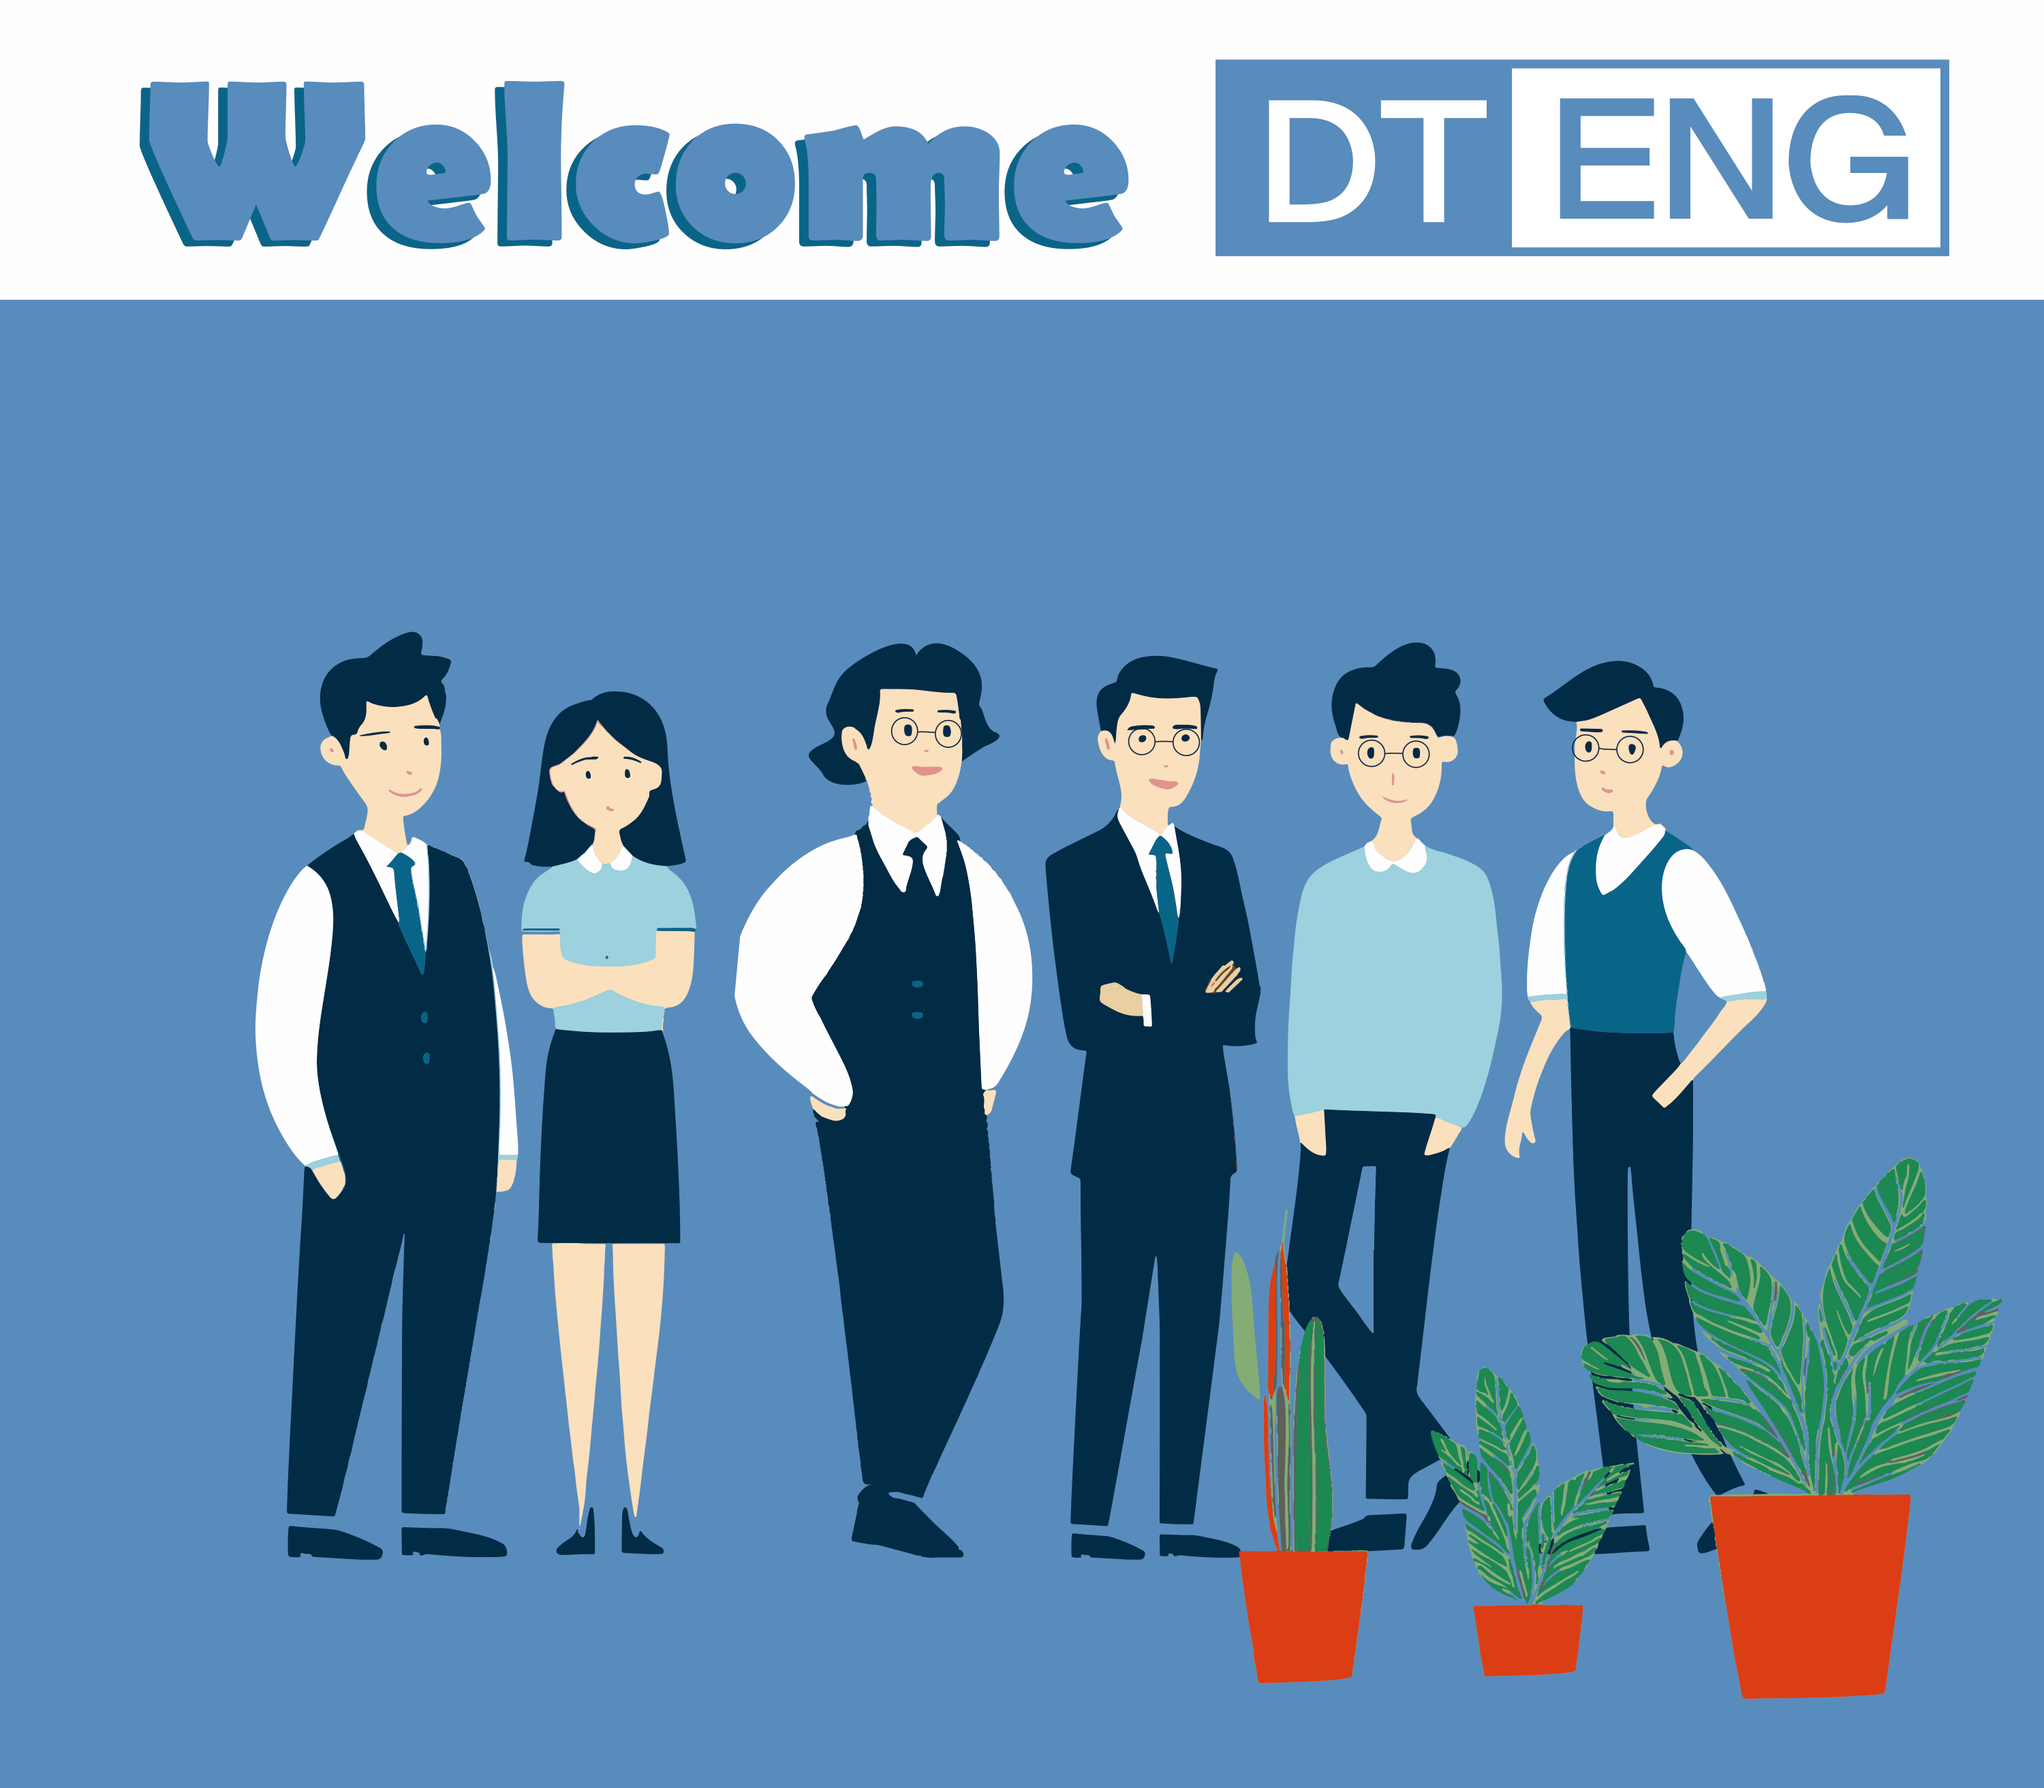
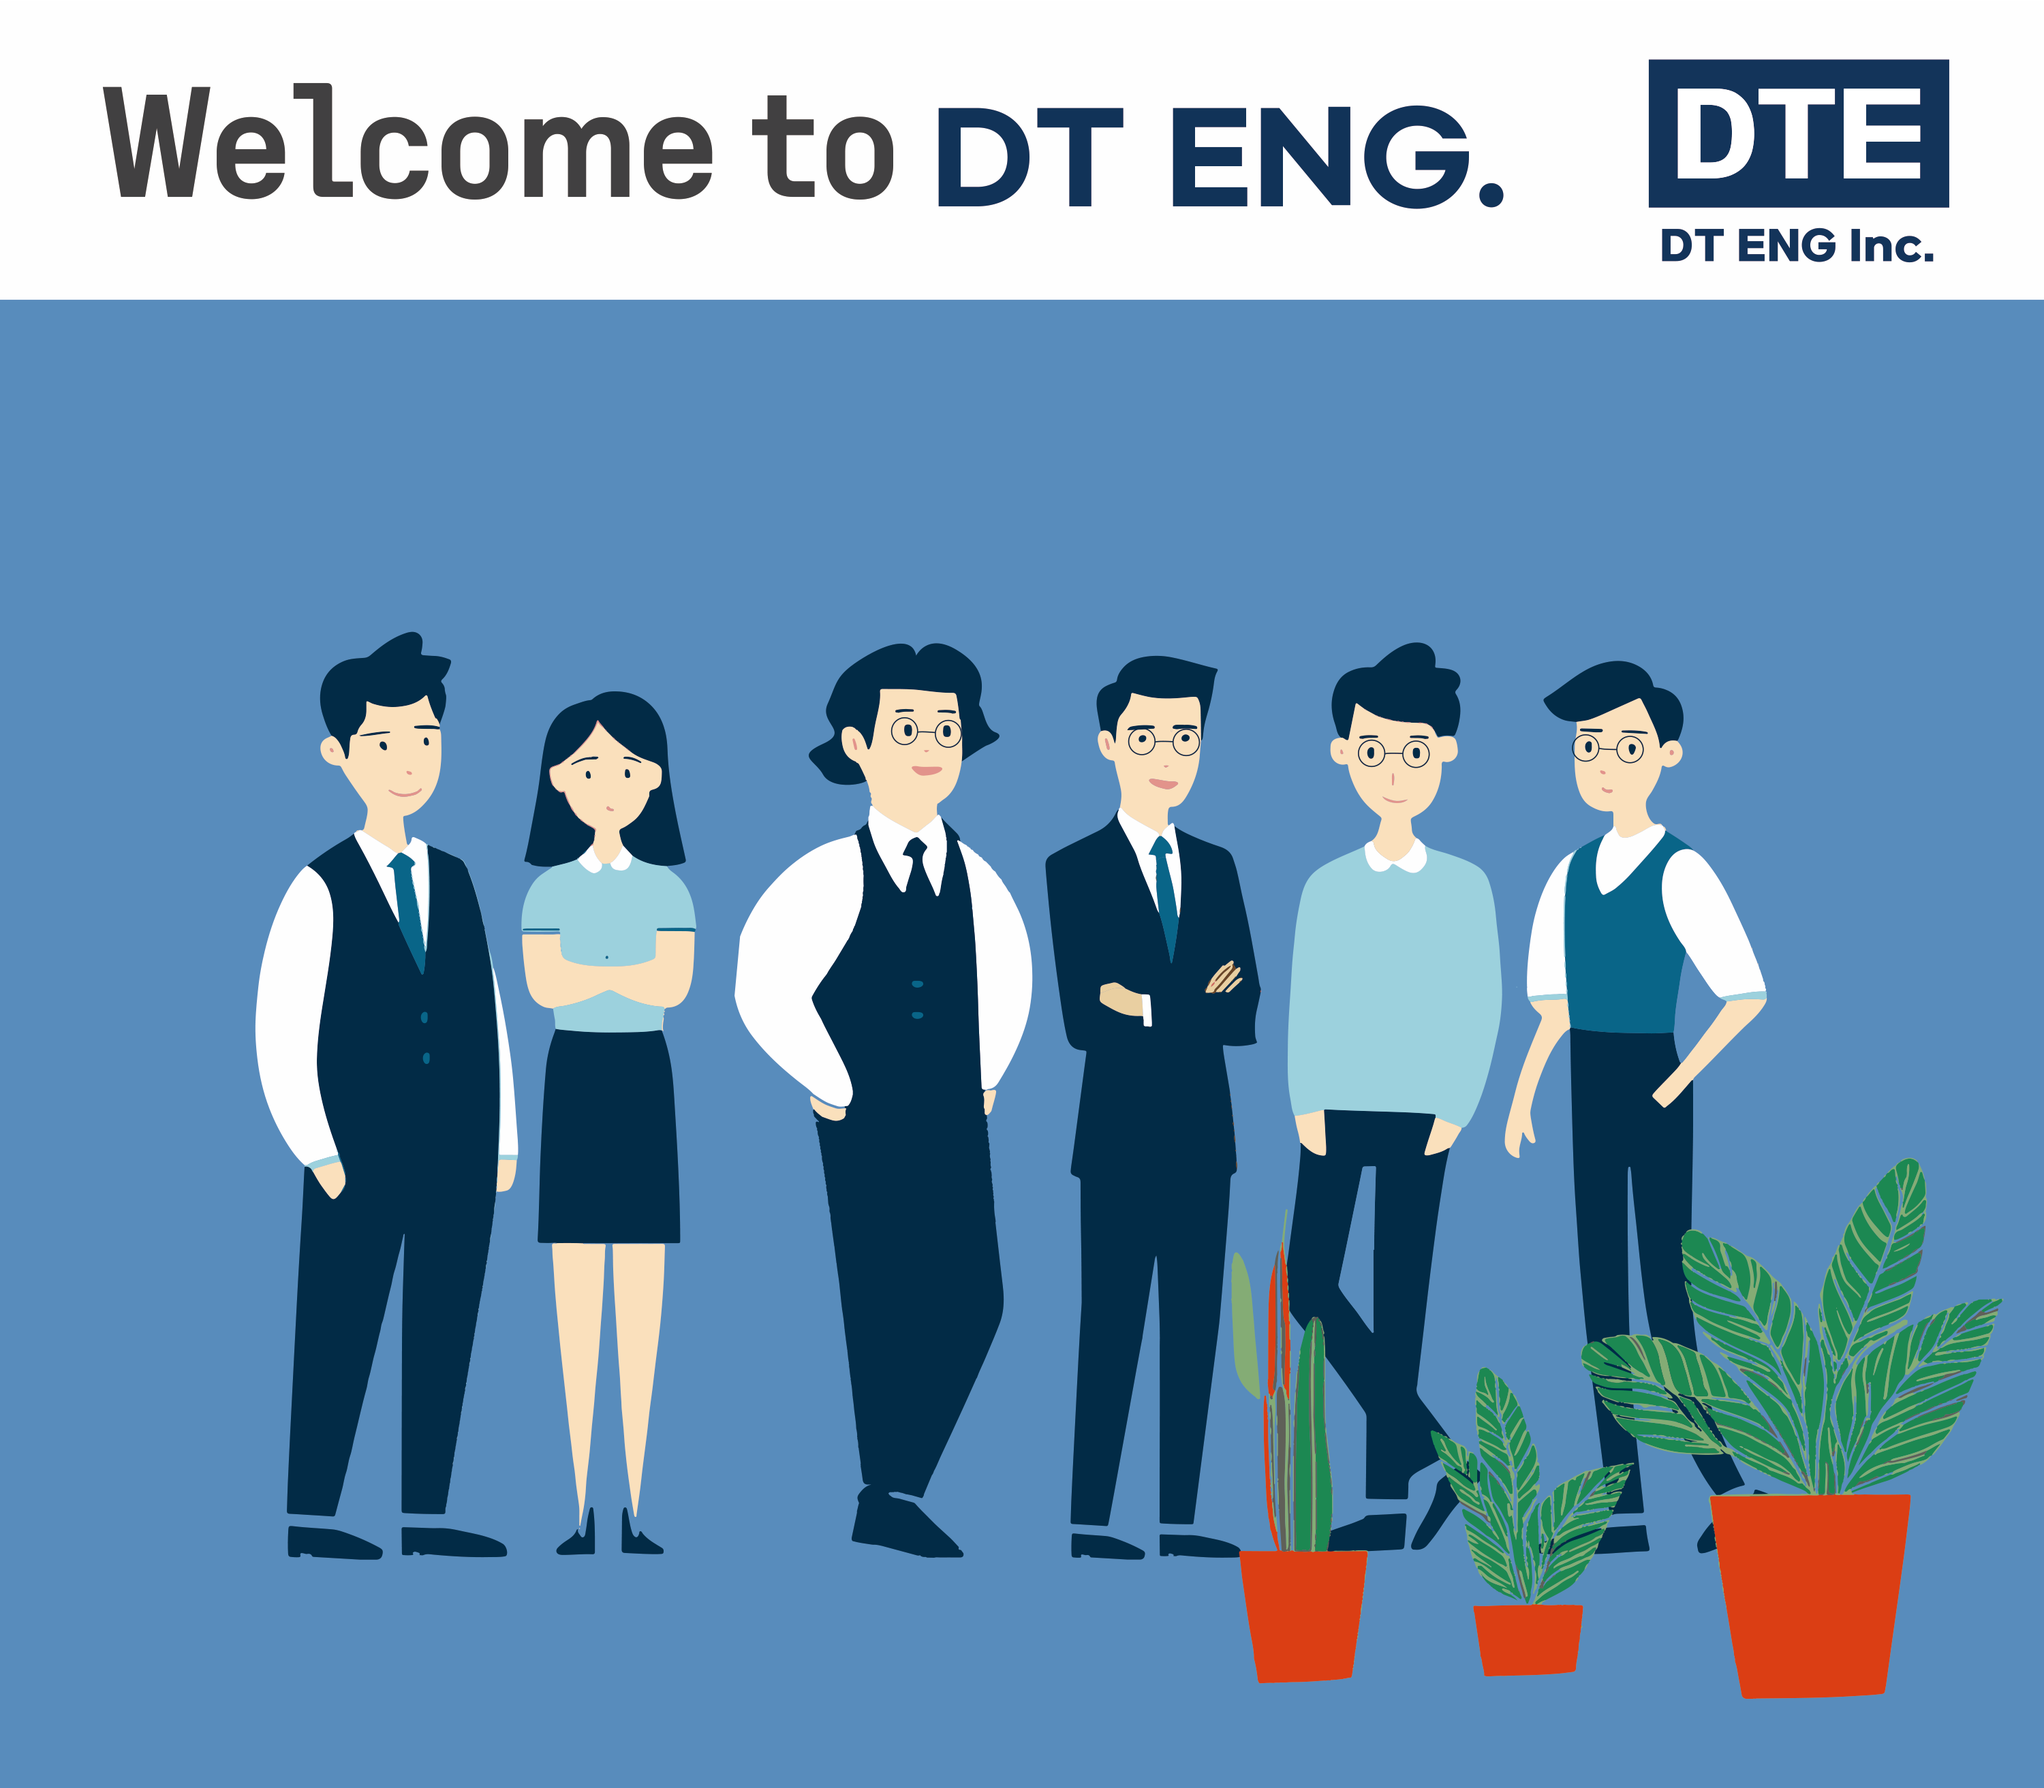
메인 로고 변경 및 연혁, 인증, 특허내용 최신화

Changed region(s): [[0.031, 0.0312, 0.961, 0.1562]]

diff --git a/src/main/resources/templates/fragments/pr-content-kor.html b/src/main/resources/templates/fragments/pr-content-kor.html
@@ -43,14 +43,27 @@
 									<td style="width: 16%; text-align: center;"><img th:src="@{/img/ISO9001-kor.png}" alt="ISO9001-kor"></td>
 									<td style="width: 16%; text-align: center;"><img th:src="@{/img/ISO9001-eng.png}" alt="ISO9001-eng"></td>
 									<td style="width: 16%; text-align: center;"><img th:src="@{/img/ISO14001-kor.png}" alt="ISO14001-kor"></td>
-									<td style="width: 16%; text-align: center;"><img th:src="@{/img/ISO14001-eng.png}" alt="ISO14001-kor"></td>
+									<td style="width: 16%; text-align: center;"><img th:src="@{/img/ISO14001-eng.png}" alt="ISO14001-eng"></td>
 									<td style="width: 16%; text-align: center;"><img th:src="@{/img/ISO45001-kor.png}" alt="ISO45001-kor"></td>
-									<td style="width: 16%; text-align: center;"><img th:src="@{/img/ISO45001-eng.png}" alt="ISO45001-kor"></td>
+									<td style="width: 16%; text-align: center;"><img th:src="@{/img/ISO45001-eng.png}" alt="ISO45001-eng"></td>
 								</tr>
 								<tr>
 									<td colspan="2">ISO 9001 품질경영시스템인증서 (2017.03.16)</td>
 									<td colspan="2">ISO 14001 환경경영시스템인증서 (2020.05.06)</td>
 									<td colspan="2">ISO 45001 안전보건경영시스템인증서 (2020.05.06)</td>
+								</tr>
+								<tr>
+									<td style="width: 16%; text-align: center;"><img th:src="@{/img/ISO37301-kor.png}" alt="ISO37301-kor"></td>
+									<td style="width: 16%; text-align: center;"><img th:src="@{/img/ISO37301-eng.png}" alt="ISO37301-eng"></td>
+									<td style="width: 16%; text-align: center;"></td>
+									<td style="width: 16%; text-align: center;"></td>
+									<td style="width: 16%; text-align: center;"></td>
+									<td style="width: 16%; text-align: center;"></td>
+								</tr>
+								<tr>
+									<td colspan="2">ISO 37301 반도체 장비 부품(웨이퍼용 정전척)의 생산 (2024.08.07)</td>
+									<td colspan="2"></td>
+									<td colspan="2"></td>
 								</tr>
 							</table>
 						</div>
@@ -62,7 +75,7 @@
 						<div id="patent">
 							<table class="default-table">
 								<tr>
-									<th style="width: 100%;" colspan="6">출원 특허 (10건)</th>
+									<th style="width: 100%;" colspan="6">출원 특허 (16건)</th>
 
 								</tr>
 								<tr>
@@ -78,6 +91,14 @@
 									<td><img th:src="@{/img/patent08.png}" alt="patent08"></td>
 									<td><img th:src="@{/img/patent09.png}" alt="patent09"></td>
 									<td><img th:src="@{/img/patent10.png}" alt="patent10"></td>
+									<td><img th:src="@{/img/patent11.png}" alt="patent11"></td>
+									<td><img th:src="@{/img/patent12.png}" alt="patent12"></td>
+								</tr>
+								<tr>
+									<td><img th:src="@{/img/patent13.png}" alt="patent13"></td>
+									<td><img th:src="@{/img/patent14.png}" alt="patent14"></td>
+									<td><img th:src="@{/img/patent15.png}" alt="patent15"></td>
+									<td><img th:src="@{/img/patent16.png}" alt="patent16"></td>
 									<td></td>
 									<td></td>
 								</tr>

diff --git a/src/main/resources/templates/fragments/pr-content-eng.html b/src/main/resources/templates/fragments/pr-content-eng.html
@@ -52,6 +52,19 @@
 					                <td colspan="2">ISO 14001 Environmental Management System Certification (2020.05.06)</td>
 					                <td colspan="2">ISO 45001 Occupational Health and Safety Management System Certification (2020.05.06)</td>
 					            </tr>
+					            <tr>
+									<td style="width: 16%; text-align: center;"><img th:src="@{/img/ISO37301-kor.png}" alt="ISO37301-kor"></td>
+									<td style="width: 16%; text-align: center;"><img th:src="@{/img/ISO37301-eng.png}" alt="ISO37301-eng"></td>
+									<td style="width: 16%; text-align: center;"></td>
+									<td style="width: 16%; text-align: center;"></td>
+									<td style="width: 16%; text-align: center;"></td>
+									<td style="width: 16%; text-align: center;"></td>
+								</tr>
+								<tr>
+					                <td colspan="2">ISO 37301 Manufacture of Parts(Electrostatic Chuck)for semiconductor Equipment (2024.08.07)</td>
+									<td colspan="2"></td>
+									<td colspan="2"></td>
+								</tr>
 					        </table>
 					    </div>
 					    <br>
@@ -62,7 +75,7 @@
 					    <div id="patent">
 					        <table class="default-table">
 					            <tr>
-					                <th style="width: 100%;" colspan="6">Applied Patents (10)</th>
+					                <th style="width: 100%;" colspan="6">Applied Patents (16)</th>
 					            </tr>
 					            <tr>
 					                <td><img th:src="@{/img/patent01.png}" alt="patent01"></td>
@@ -77,9 +90,17 @@
 					                <td><img th:src="@{/img/patent08.png}" alt="patent08"></td>
 					                <td><img th:src="@{/img/patent09.png}" alt="patent09"></td>
 					                <td><img th:src="@{/img/patent10.png}" alt="patent10"></td>
-					                <td></td>
-					                <td></td>
-					            </tr>
+					                <td><img th:src="@{/img/patent11.png}" alt="patent11"></td>
+									<td><img th:src="@{/img/patent12.png}" alt="patent12"></td>
+								</tr>
+								<tr>
+									<td><img th:src="@{/img/patent13.png}" alt="patent13"></td>
+									<td><img th:src="@{/img/patent14.png}" alt="patent14"></td>
+									<td><img th:src="@{/img/patent15.png}" alt="patent15"></td>
+									<td><img th:src="@{/img/patent16.png}" alt="patent16"></td>
+									<td></td>
+									<td></td>
+								</tr>
 					        </table>
 					    </div>
 					    <br>

diff --git a/src/main/resources/templates/fragments/location-content-eng.html b/src/main/resources/templates/fragments/location-content-eng.html
@@ -28,7 +28,7 @@
             <div id="box-center"><!-- S : 연혁 헤더 -->
 			<div>
 				<p class="title">Head Office</p>
-				<h3>ADDRESS: (18487) 814, Dongbu-daero, Hwaseong-si, Gyeonggi-do, Republic of Korea</h3>
+				<h3>ADDRESS: (18487) 53-15, Dongtansandan 6-gil, Hwaseong-si, Gyeonggi-do, Republic of Korea</h3>
 				<p class="body-text">TEL: 031-768-8847 / FAX: 031-8058-0422</p>
 			</div>
 			<hr>
@@ -37,7 +37,7 @@
 					<img th:src="@{/img/company_img.png}" alt="location">
 				</div>
 				<div id="box-right">
-					<iframe src="https://www.google.com/maps/embed?pb=!1m18!1m12!1m3!1d3179.1183142776267!2d127.08492407650559!3d37.17365914655789!2m3!1f0!2f0!3f0!3m2!1i1024!2i768!4f13.1!3m3!1m2!1s0x357b466368d4c387%3A0x5496eca9912fca25!2sDTENG!5e0!3m2!1sen!2skr!4v1707783365666!5m2!1sen!2skr" width="100%" height="100%" style="border:0;" allowfullscreen="" loading="lazy" referrerpolicy="no-referrer-when-downgrade"></iframe>
+					<iframe src="https://www.google.com/maps/embed?pb=!1m18!1m12!1m3!1d945.2040642252458!2d127.08954716970732!3d37.16993898666375!2m3!1f0!2f0!3f0!3m2!1i1024!2i768!4f13.1!3m3!1m2!1s0x357b466425166741%3A0x429a61f842552bbe!2s53-15%20Dongtansandan%206-gil%2C%20Hwaseong-si%2C%20Gyeonggi-do!5e0!3m2!1sen!2skr!4v1721292551176!5m2!1sen!2skr" width="100%" height="100%" style="border:0;" allowfullscreen="" loading="lazy" referrerpolicy="no-referrer-when-downgrade"></iframe>
 				</div>
 			</div>
 			<hr>

diff --git a/src/main/resources/templates/fragments/location-content-kor.html b/src/main/resources/templates/fragments/location-content-kor.html
@@ -28,7 +28,7 @@
             <div id="box-center"><!-- S : 연혁 헤더 -->
 			<div>
 				<p class="title">본사</p>
-				<h3>주소 : (18487) 경기 화성시 동부대로 814</h3>
+				<h3>주소 : (18487) 경기도 화성시 동탄산단6길 53-15(방교동 836-6)</h3>
 				<p class="body-text">TEL: 031-768-8847 / FAX: 031-8058-0422</p>
 			</div>
 			<hr>
@@ -37,7 +37,7 @@
 					<img th:src="@{/img/company_img.png}" alt="location">
 				</div>
 				<div id="box-right">
-					<iframe src="https://www.google.com/maps/embed?pb=!1m18!1m12!1m3!1d3179.118314277666!2d127.084924077136!3d37.17365914655695!2m3!1f0!2f0!3f0!3m2!1i1024!2i768!4f13.1!3m3!1m2!1s0x357b466368d4c387%3A0x5496eca9912fca25!2sDTENG!5e0!3m2!1sko!2skr!4v1707376320665!5m2!1sko!2skr" width="100%" height="100%" style="border:0;" allowfullscreen="" loading="lazy" referrerpolicy="no-referrer-when-downgrade"></iframe>
+					<iframe src="https://www.google.com/maps/embed?pb=!1m18!1m12!1m3!1d945.2133268437367!2d127.0898594958807!3d37.16919845721821!2m3!1f0!2f0!3f0!3m2!1i1024!2i768!4f13.1!3m3!1m2!1s0x357b466425166741%3A0xf3b778cf1568fc67!2z6rK96riw64-EIO2ZlOyEseyLnCDrsKnqtZDrj5kgODM2LTY!5e0!3m2!1sko!2skr!4v1721294630989!5m2!1sko!2skr" width="100%" height="100%" style="border:0;" allowfullscreen="" loading="lazy" referrerpolicy="no-referrer-when-downgrade"></iframe>
 				</div>
 			</div>
 			<hr>

diff --git a/src/main/resources/static/css/layout.css b/src/main/resources/static/css/layout.css
@@ -20,7 +20,7 @@ a:active {
 }
 
 h3 {
-	color: #578BBB;
+	color: #13335A;
 	font-weight: bold;
 }
 
@@ -418,7 +418,7 @@ img {
 	top: 50%;
 	left:100px;
 	transform: translate(-50%, -50%);/* 요소를 지정한 X 및 Y 좌표만큼 이동 */
-	color: #578BBB;
+	color: #13335A;
 	font-size: 22px;
 	font-weight: bold;
 	text-align: left;
@@ -440,7 +440,7 @@ img {
 	padding-bottom: 80px;/* footer로 인해 가려지는것을 방지하기 위함 */
 	padding-left: 50px;
 	padding-right: 50px;
-	/*background-color: #578BBB;	*/
+	/*background-color: #13335A;	*/
 }
 
 #content-section hr { 
@@ -454,7 +454,7 @@ img {
 	height: 35px;
 	font-weight: bold;
 	color: #FFFFFF;
-	background-color: #578BBB;
+	background-color: #13335A;
 	border: 0;
 }
 
@@ -478,7 +478,7 @@ img {
 	height: 35px;
 	font-weight: bold;
 	color: #FFFFFF;
-	background-color: #578BBB;
+	background-color: #13335A;
 	border: 0;
 }
 
@@ -584,7 +584,7 @@ img {
 	font-size: 14px;
 	font-weight: bold;
 	color: #FFFFFF;
-	background-color: #578BBB;
+	background-color: #13335A;
 	border: 0;
 	transition: background-color 0.6s ease;
 }

diff --git a/src/main/resources/templates/fragments/footer-eng.html b/src/main/resources/templates/fragments/footer-eng.html
@@ -9,7 +9,7 @@
 				<img th:src="@{/img/DTENG_LOGO(1500px).png}" alt="logo">
 			</div>-->
 			<div id="bottomm-text">
-				<p>DT ENG INC.	|	CEO:  KWANG RO, GO	|	ADDRESS: (18487) 814, Dongbu-daero, Hwaseong-si, Gyeonggi-do, Republic of Korea	|	TEL: 031-8058-0411	|	FAX: 031-8058-0422</p>
+				<p>DT ENG INC.	|	CEO:  KWANG RO, GO	|	ADDRESS: (18487) 53-15, Dongtansandan 6-gil, Hwaseong-si, Gyeonggi-do, Republic of Korea	|	TEL: 031-8058-0411	|	FAX: 031-8058-0422</p>
 				<p>COPYRIGHT BY DTENG. ALL RIGHTS RESERVED.</p>
 			</div>
 		</div>

diff --git a/src/main/resources/templates/fragments/history-content-eng.html b/src/main/resources/templates/fragments/history-content-eng.html
@@ -165,6 +165,24 @@
 							</div>
 							<span></span>
 						</div><!--list_left-->
+						<h2>2024</h2>
+						<div class="list_right">
+							<span></span>
+							<div>
+								<ul>
+									<li>
+										<dl>
+											<dt>Jul</dt>
+											<dd>Building expansion relocation</dd>
+										</dl>
+										<dl>
+											<dt>Aug</dt>
+											<dd>ISO 37301:2021 certification</dd>
+										</dl>
+									</li>
+								</ul>
+							</div>
+						</div><!--list_right-->
 					</div>
 				</div>
 			</div>

diff --git a/src/main/resources/templates/fragments/history-content-kor.html b/src/main/resources/templates/fragments/history-content-kor.html
@@ -165,6 +165,24 @@
 							</div>
 							<span></span>
 						</div><!--list_left-->
+						<h2>2024</h2>
+						<div class="list_right">
+							<span></span>
+							<div>
+								<ul>
+									<li>
+										<dl>
+											<dt>Jul</dt>
+											<dd>건물 확장 이전</dd>
+										</dl>
+										<dl>
+											<dt>Aug</dt>
+											<dd>ISO 37301:2021 인증</dd>
+										</dl>
+									</li>
+								</ul>
+							</div>
+						</div><!--list_right-->
 					</div><!--history-->
 				</div>
 			</div>

diff --git a/src/main/resources/templates/fragments/footer-kor.html b/src/main/resources/templates/fragments/footer-kor.html
@@ -9,7 +9,7 @@
 				<img th:src="@{/img/DTENG_LOGO(1500px).png}" alt="logo">
 			</div>-->
 			<div id="bottomm-text">
-				<p>㈜동탄이엔지	|	대표명:  고광노	|	주소: (18487) 경기 화성시 동부대로 814	|	TEL: 031-8058-0411	|	FAX: 031-8058-0422</p>
+				<p>㈜동탄이엔지	|	대표명:  고광노	|	주소: (18487) 경기도 화성시 동탄산단6길 53-15(방교동 836-6)	|	TEL: 031-8058-0411	|	FAX: 031-8058-0422</p>
 				<p>COPYRIGHT BY DTENG. ALL RIGHTS RESERVED.</p>
 			</div>
 		</div>
